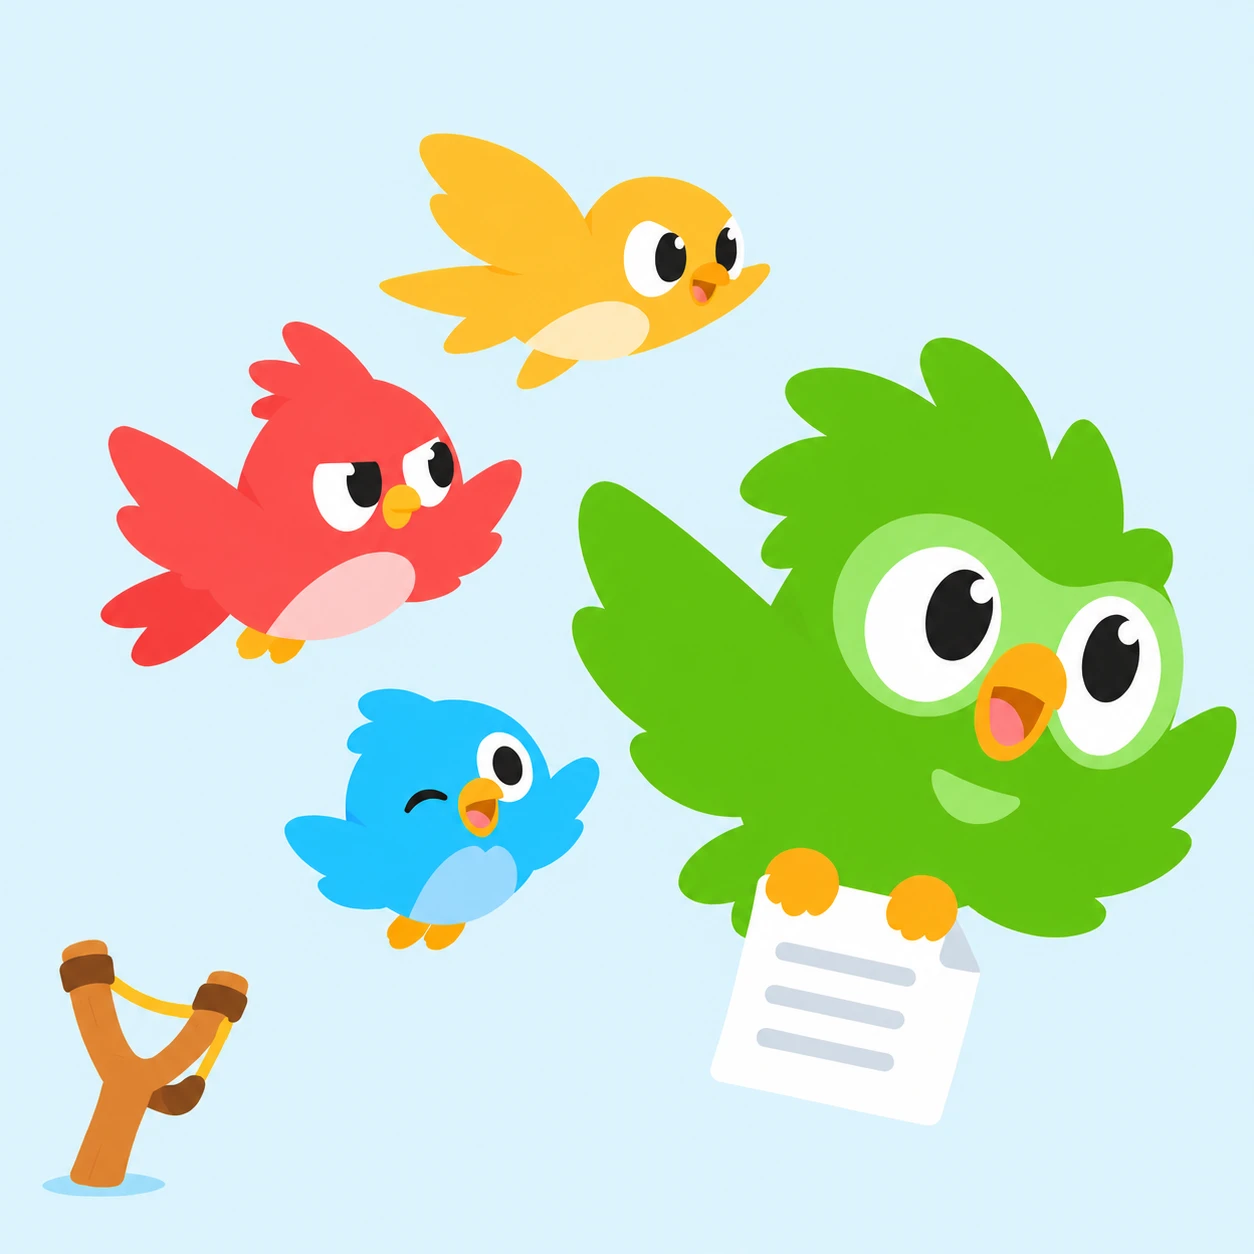
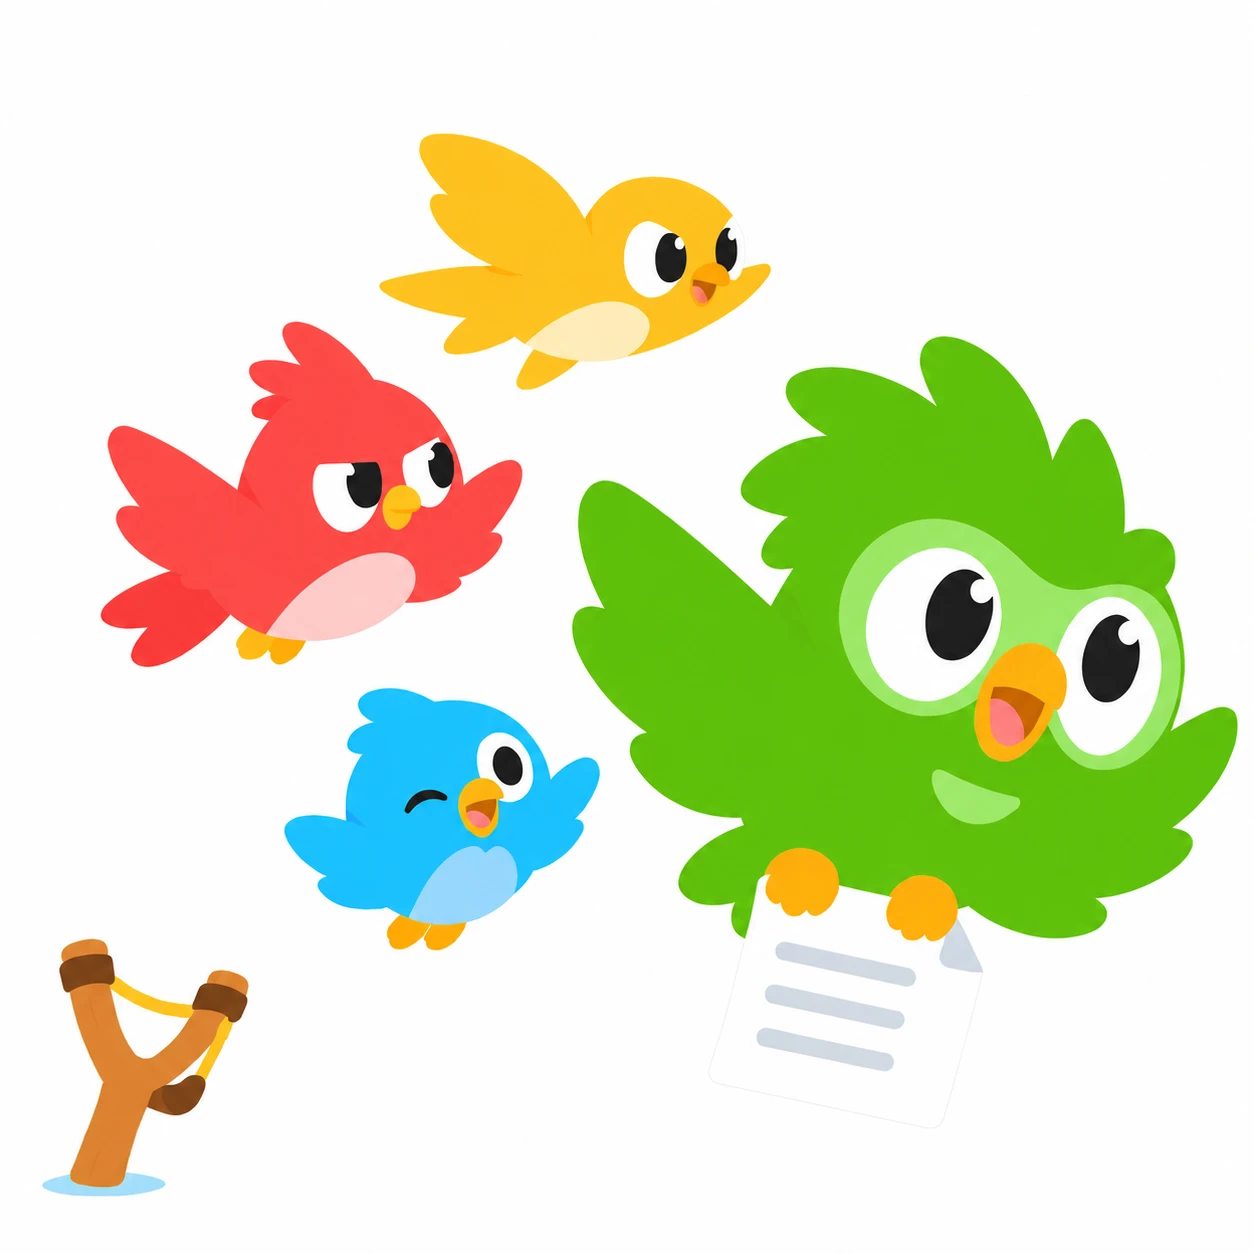
Use the white-background mascot image

diff --git a/src/components/brand.tsx b/src/components/brand.tsx
@@ -1,10 +1,10 @@
 import Image from "next/image";
+// Imported rather than linked by path, so the file's content hash is part of its URL and a replaced
+// picture is never served from an old cache (browser, image optimizer or CDN).
+import mascotsImage from "../../public/brand/reviewlens-mascots.webp";
 
 // The eagle silhouette, exactly as provided (1402 x 1122, transparent background).
 const MARK = { src: "/brand/reviewlens-mark.png", width: 1402, height: 1122 };
-
-// The ReviewLens mascots, exactly as provided (1254 x 1254, on a sky blue that matches --sky).
-const MASCOTS = { src: "/brand/reviewlens-mascots.webp", width: 1254, height: 1254 };
 
 /** The ReviewLens eagle mark: the logo in the header. The square logo is only for browser and home-screen icons. */
 export function BrandMark({
@@ -34,9 +34,10 @@ export function BrandMark({
 }
 
 /**
- * The mascots illustration on its own sky-blue panel, for the few moments that welcome someone: the
- * public welcome page, the first upload and the page-not-found screen. Decorative: the words beside it
- * carry the message. The panel's padding keeps the picture whole; nothing is cropped.
+ * The mascots illustration (1254 x 1254, exactly as provided, on a white background that matches the
+ * page), for the few moments that welcome someone: the public welcome page, the first
+ * upload, and the not-found and error screens. It sits straight on the white page. Decorative: the words
+ * beside it carry the message.
  */
 export function Mascots({
   sizes,
@@ -49,8 +50,6 @@ export function Mascots({
   className?: string;
 }) {
   return (
-    <div className={`rounded-[28px] bg-accent-soft p-2.5 ${className}`}>
-      <Image src={MASCOTS.src} alt="" width={MASCOTS.width} height={MASCOTS.height} preload={preload} sizes={sizes} className="h-auto w-full" />
-    </div>
+    <Image src={mascotsImage} alt="" preload={preload} sizes={sizes} className={`h-auto ${className}`} />
   );
 }

diff --git a/docs/superpowers/specs/2026-10-28-redesign-design.md b/docs/superpowers/specs/2026-10-28-redesign-design.md
@@ -13,7 +13,7 @@ The direction follows the taste skill's app-screen rules with its "accent ladder
 | Pale green | `#e6fad6` | selected tabs and menu items, success tags, progress tracks |
 | Green ink | `#2f6b00` | text on white or on pale green (6.5:1) |
 | Deeper green | `#58cc02` | progress fills and positive sentiment in charts |
-| Sky blue | `#ddf4ff` | small panels: the overview's finding, the mascots' panel, the AI-mode tag |
+| Sky blue | `#ddf4ff` | small panels: the overview's finding and the AI-mode tag |
 | Blue | `#1cb0f6` | link underlines; link text uses `#1274a2` (5.2:1) |
 | Text | `#3c3c3c` | headings and main text (11:1) |
 | Muted text | `#6b6b6b` | supporting text; `#777777` is 4.48:1 on white and 4.2:1 on grey panels, so the nearest grey that passes on both is used |
@@ -40,7 +40,7 @@ Nunito Black for page titles and big numbers, Nunito Sans for everything else. A
 
 ## Screens
 
-- **Public welcome** (signed out, `/`): the mascots on their sky-blue panel, "See what your reviews are really saying.", one short line, Get started (to `/sign-up`) and I already have an account (to `/sign-in`).
+- **Public welcome** (signed out, `/`): the mascots on the white page, "See what your reviews are really saying.", one short line, Get started (to `/sign-up`) and I already have an account (to `/sign-in`).
 - **Account pages:** one centered column on white with a title, a short line, the form and its links. Email, Password and Confirm password labels, with short guidance outside the labels.
 - **First upload:** the "Your reviews" title stays; the first action sits where uploads will appear: "Choose a CSV to get started", Upload reviews, a sample CSV and the four steps, with the mascots beside it.
 - **Your reviews:** Upload reviews as the main action, the latest upload with its status and one next step (See the results, Continue analysis or Upload again), earlier uploads as compact rows.
@@ -53,6 +53,6 @@ Nunito Black for page titles and big numbers, Nunito Sans for everything else. A
 ## Brand assets
 
 - Square logo ("Magnifying Bird Mascot Icon"), for the browser and home screen only, resized and never cropped or recolored: `src/app/favicon.ico` (16, 32 and 48px), `src/app/icon.png` (192px), `src/app/apple-icon.png` (180px), and `public/icons/icon-192.png` and `icon-512.png` for `src/app/manifest.ts`. The manifest lists plain icons only; a maskable icon would let Android crop the logo.
-- Mascots artwork, `public/brand/reviewlens-mascots.webp`: provided by Jake, byte-for-byte, drawn by `Mascots` in `src/components/brand.tsx` on a sky-blue panel whose padding keeps the picture whole. Empty alt text, because the words beside it carry the message.
+- Mascots artwork, `public/brand/reviewlens-mascots.webp`: provided by Jake, byte-for-byte, on a white background so it sits straight on the white pages (an earlier copy had a sky-blue background). Drawn by `Mascots` in `src/components/brand.tsx` with empty alt text, because the words beside it carry the message.
 - Eagle silhouette, `public/brand/reviewlens-mark.png`: the provided transparent PNG, byte-for-byte, drawn by `BrandMark` as the header logo. It is never used as a browser icon, and the square logo never appears in the header.
 - Images load with `preload` or `loading="eager"`; Next.js 16 deprecates `priority`.
